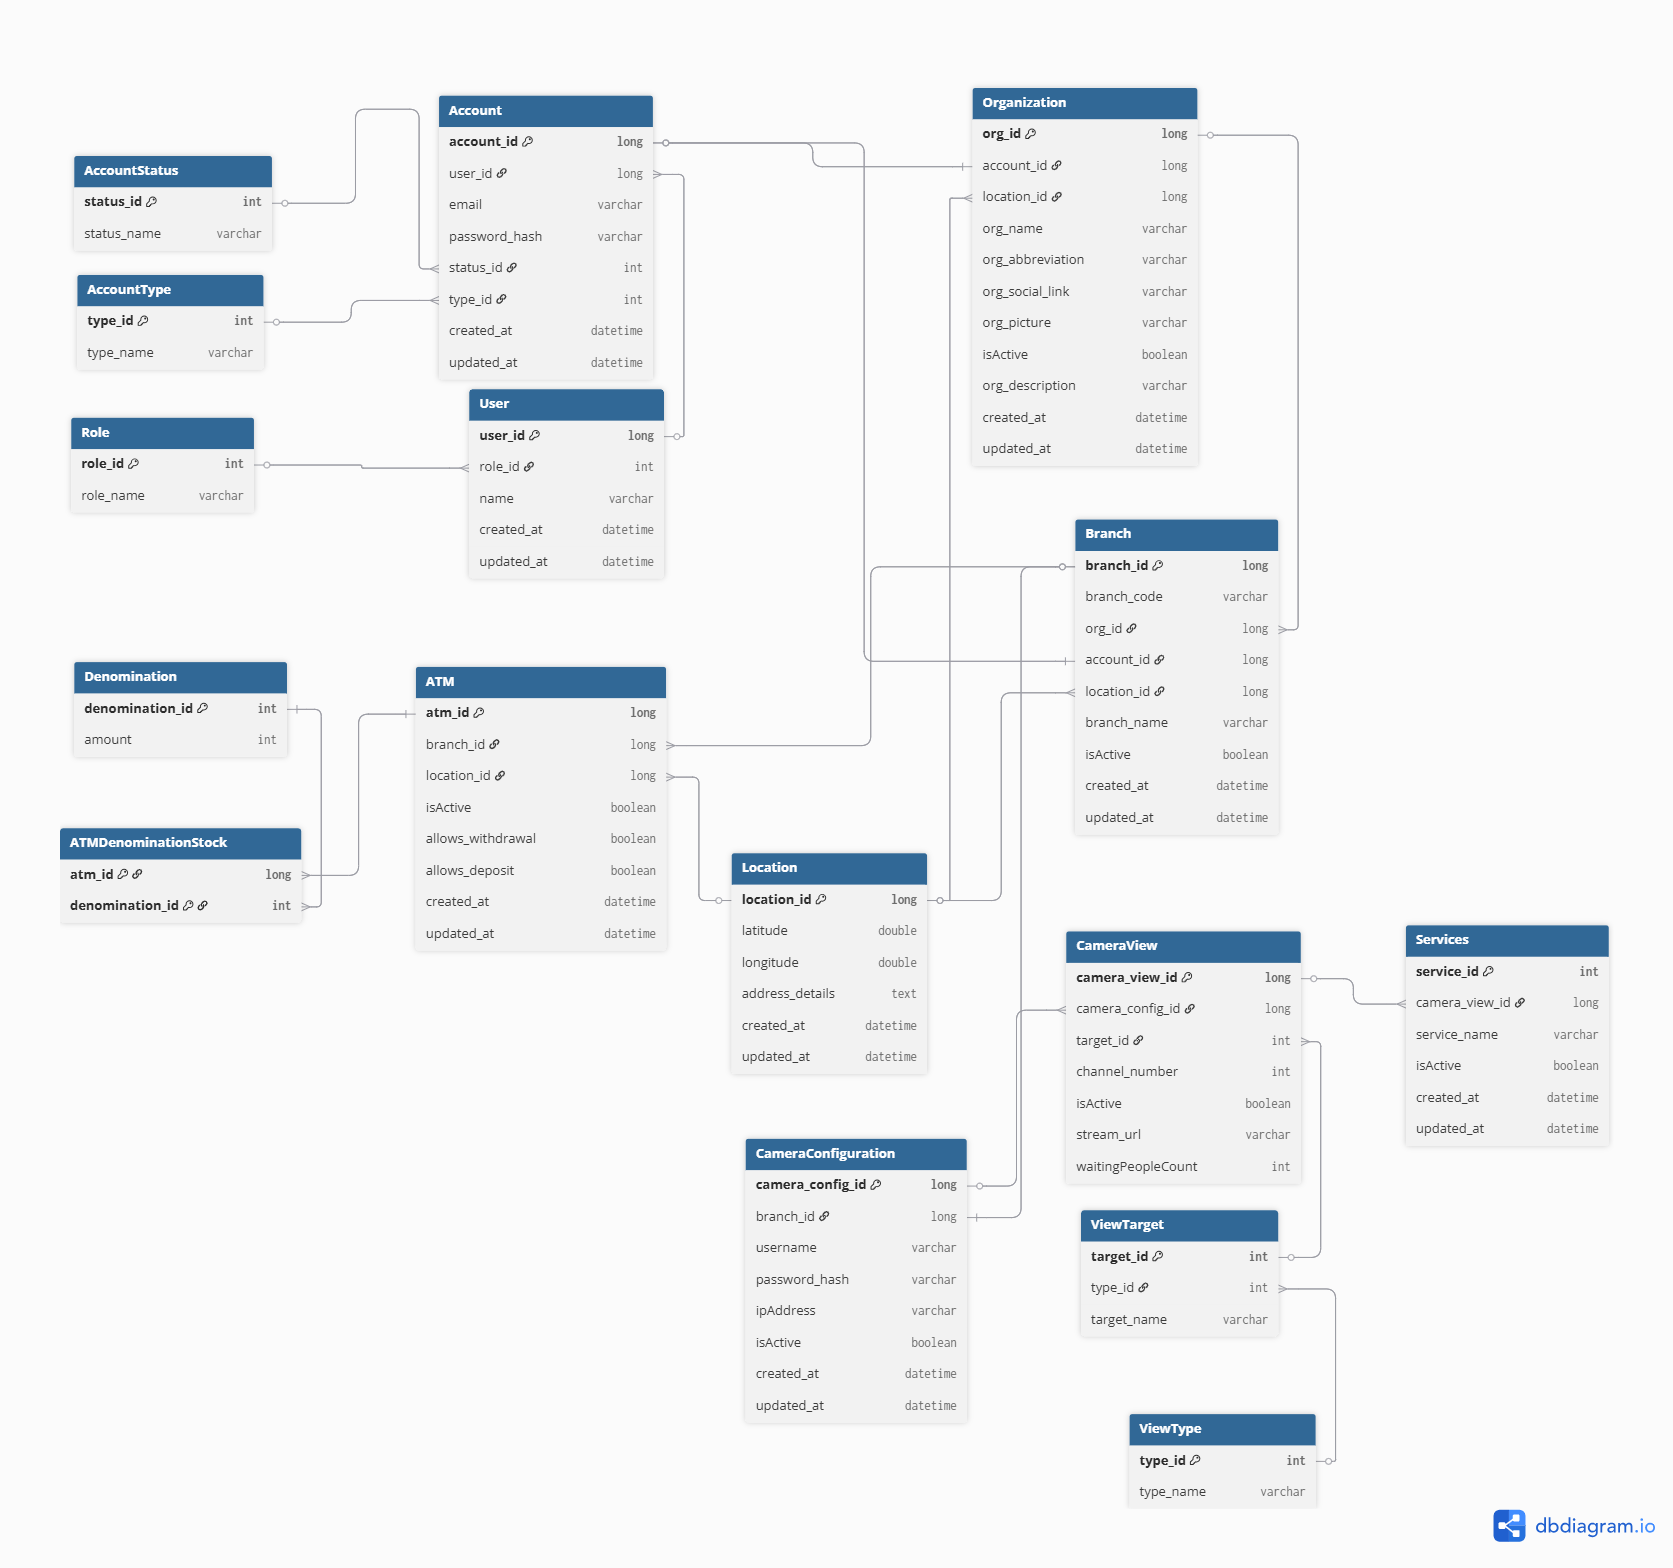
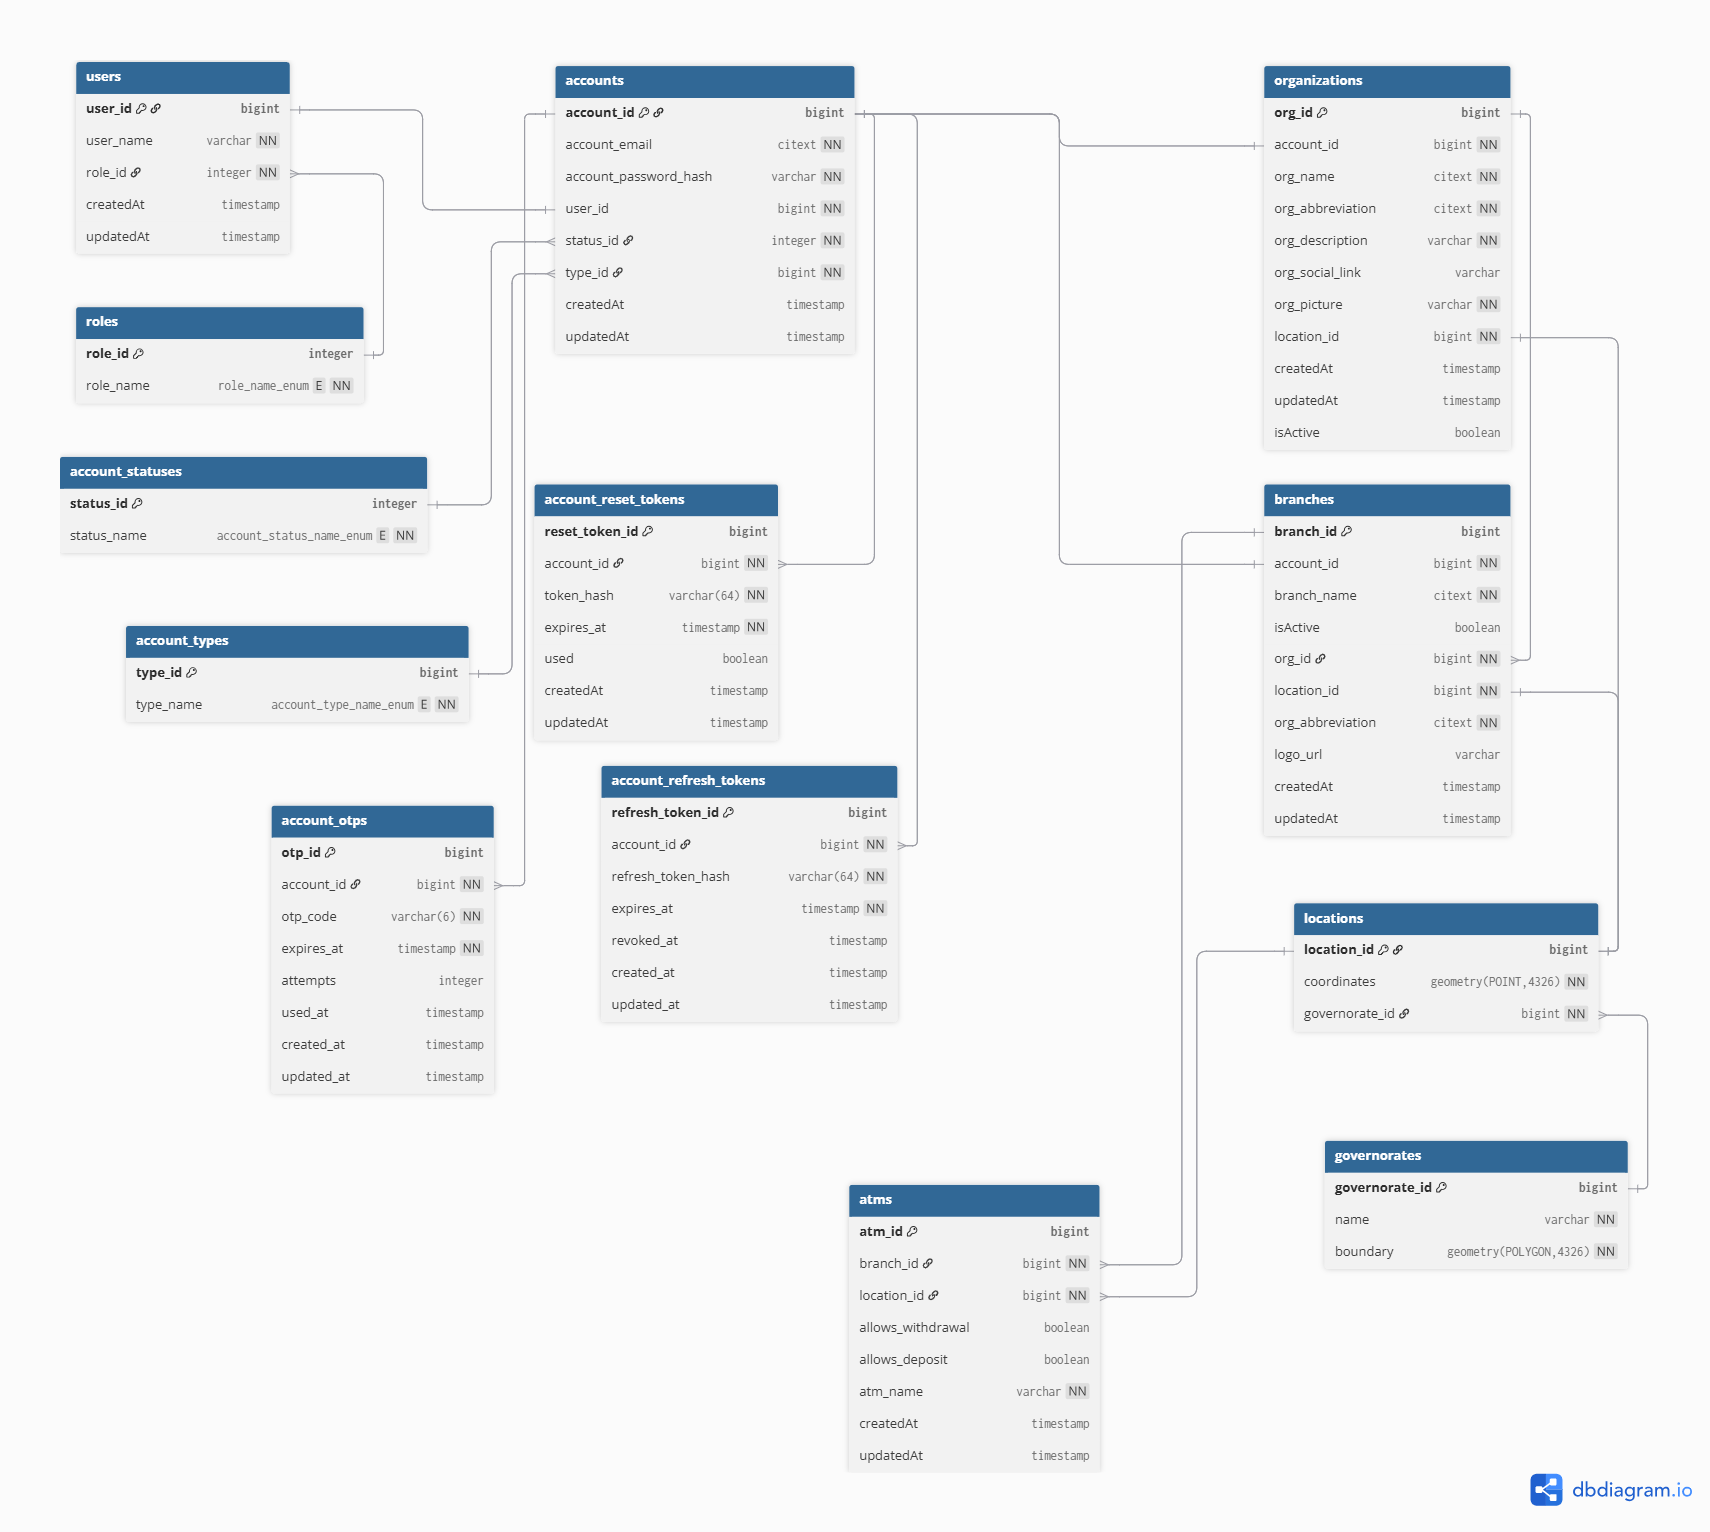
docs:update ERD;

diff --git a/src/controllers/organization.controller.js b/src/controllers/organization.controller.js
@@ -14,6 +14,7 @@ export class OrganizationController {
       const organization_id = await this.organizationService.createOrganization(
         req.body,
       );
+      
       return ApiResponse.success(
         res,
         httpStatus.SUCCESSFULL,

diff --git a/src/middlewares/validateSignupOrganization.middleware.js b/src/middlewares/validateSignupOrganization.middleware.js
@@ -44,6 +44,7 @@ const signupSchema = Joi.object({
   }),
 });
 
+
 export const validateSignupOrganization = (req, res, next) => {
   const { error } = signupSchema.validate(req.body);
   if (error) {

diff --git a/src/routes/organization.routes.js b/src/routes/organization.routes.js
@@ -9,6 +9,7 @@ import { rateLimiter } from "../middlewares/rate.limiter.middleware.js";
 export const router = express.Router();
 // /api/organizations/signup
 router
+
   .route("/signup")
   .post(
     rateLimiter(60 * 60 * 1000, 10),